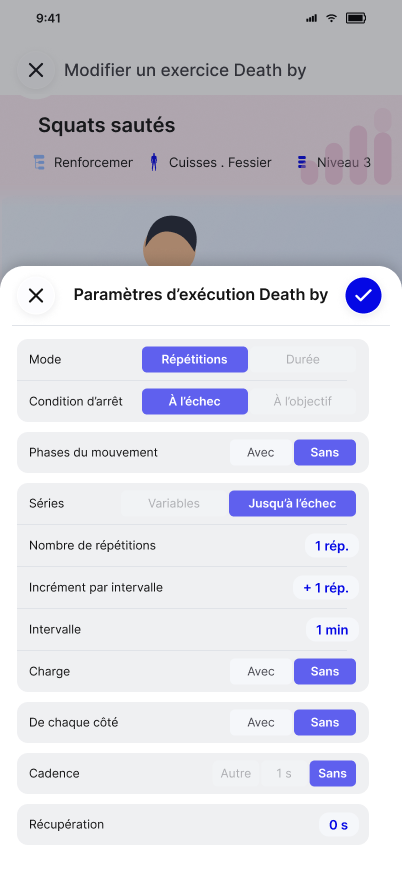
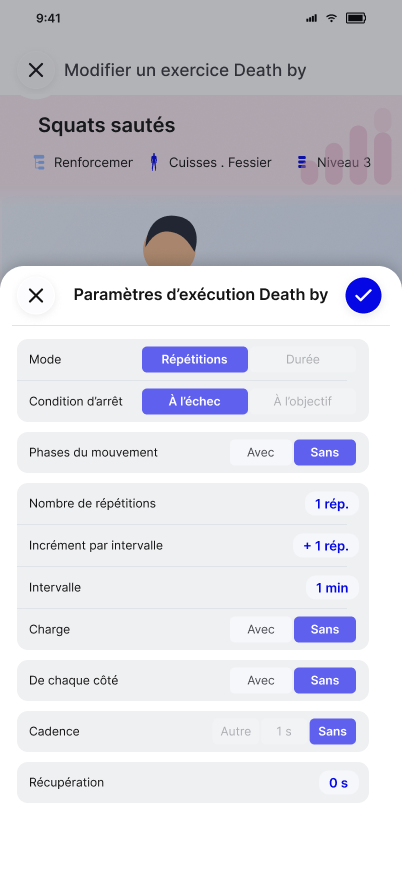
docs: retirer la ligne Séries de la modale Death by (D-514)

diff --git a/docs/KODJO-Formats-entrainement-2026-11-02.md b/docs/KODJO-Formats-entrainement-2026-11-02.md
@@ -608,11 +608,13 @@ Paramètres du questionnaire : Intervalle (1 min), Objectif de départ (1), Incr
 
 **Un seul mouvement** — l'exercice porte le format (Type d'exercice = Death by) :
 
+Dans la modale « Paramètres d’exécution » de Death by, la condition d’arrêt standard « À l’échec » porte seule la fin de l’exercice. La ligne « Séries » est retirée. Le nombre de séries découle de l’échec. En mode Répétitions, la série de rang n (à partir de 1) demande le nombre de répétitions de départ augmenté de (n − 1) fois l’incrément par intervalle.
+
 | Champ | Valeur |
 |---|---|
 | Mode | Répétitions (Durée grisé) |
 | Condition d'arrêt | À l’échec, imposée (À l’objectif grisé) |
-| Séries | **« Jusqu'à l'échec »** (Variables grisé) : seule nouveauté, une valeur du champ Séries à la place d'un nombre |
+| Séries | ~~« Jusqu'à l'échec » (Variables grisé) : seule nouveauté, une valeur du champ Séries à la place d'un nombre~~. **Remplacé le 07/11/2026 (D-514).** Ligne retirée. |
 | Nombre de répétitions | 1 (départ) |
 | Incrément par intervalle | + 1 rép. par défaut, **au minimum + 1** (0 n'est pas proposé : ce serait un EMOM jusqu'à l'échec) — champ Incrément par tour de l'AMRAP |
 | Intervalle | 1 min (champ de l'EMOM) |
@@ -655,7 +657,7 @@ Lorsqu'un exercice sort d'un circuit qui porte un format (AMRAP, For time, EMOM 
    - Sortie d’un Circuit AMRAP → AMRAP simple en Répétitions ; durée d’un bloc reprise du Circuit (ex. 12 min). Si le membre était en Durée, aucune durée n’est convertie en répétitions : l’objectif de répétitions reste à renseigner ; les phases et autres paramètres compatibles sont conservés. Les phases chronométrées ne transforment pas la cible de l’AMRAP simple en Durée.
    - Sortie d'un circuit For time → For time simple ; Séries = nombre de tours, mêmes volumes.
    - Sortie d'un circuit EMOM « dans chaque intervalle » → EMOM simple ; Intervalle = durée de chaque tour, Séries = nombre de tours.
-   - Sortie d’un Circuit Death by → Death by simple ; Séries « Jusqu’à l’échec », Nombre de répétitions et Incrément conservés. Dans chaque intervalle : Intervalle repris du Circuit. En alternance : Intervalle propre de l’Exercice conservé, sans reprise d’une durée de Circuit inexistante.
+   - Sortie d’un Circuit Death by → Death by simple ; ~~Séries « Jusqu’à l’échec »,~~ **Remplacé le 07/11/2026 (D-514)** (aucune ligne Séries à rétablir). Nombre de répétitions et Incrément conservés. Dans chaque intervalle : Intervalle repris du Circuit. En alternance : Intervalle propre de l’Exercice conservé, sans reprise d’une durée de Circuit inexistante.
 2. **« Adopter un format libre »** : l'exercice devient un exercice standard. Exception : un buy-in ou un buy-out sorti du circuit devient directement un exercice libre (section 6), sans cette confirmation. Le choix explicite du Format Libre reprend les paramètres compatibles et laisse les autres à compléter ; aucune conversion de durée en répétitions, aucun calcul arbitraire et aucune confirmation supplémentaire de perte. Ne pas promettre « aucune perte » pour tous les changements de prescription.
 
 **Dialogue représenté** : « AMRAP — Séance, sortie d’un exercice du circuit (confirmation) » (`11410:20123`), composant « DSF / Overlays / Confirmation », variante Trois actions, sur fond voilé. Titre « Sortir du circuit AMRAP ? » ; exemple de message « Fentes avant devient un AMRAP simple de 12 min, ou un exercice libre sans incrément par tour. » Actions : **Conserver le format AMRAP** (principale bleue, choix par défaut), **Adopter un format libre** (secondaire), **Annuler**. Annuler conserve l’emplacement et les paramètres antérieurs. Le message varie selon le mouvement, le Format et les paramètres effectivement repris ; ce texte illustratif ne supprime pas les règles de compatibilité ou de champs à compléter.
@@ -676,7 +678,7 @@ Un exercice qui porte lui-même son format (EMOM, For time, AMRAP simple…) ne 
 | Nom du circuit | Circuit | Nom modifiable ; modèle par défaut, sinon Circuit | Tous Circuits (§7.8) |
 | Modèle d’origine | Circuit | Modèle de création non modifiable, distinct du Format d’origine | Réouverture du parcours (§7.9) |
 | Intervalle | Exercice | Durée (1 min par défaut), modifiable dans sa modale, remplace la Pause | EMOM autonome ou alterné ; Death by autonome ou membre du Circuit Death by alterné |
-| Séries « Jusqu'à l'échec » | Exercice | Valeur du champ Séries à la place d'un nombre | Death by |
+| Séries « Jusqu'à l'échec » | Exercice | ~~Valeur du champ Séries à la place d'un nombre~~. **Remplacé le 07/11/2026 (D-514).** Aucun paramètre de nombre de séries. | Death by |
 | Durée maximum du For time | Exercice | Libellé de la Durée de l'exercice pour un For time simple ; « Aucune » par défaut | For time |
 
 Champs propres au format qui restent sur un exercice qui porte lui-même son format :
@@ -684,7 +686,7 @@ Champs propres au format qui restent sur un exercice qui porte lui-même son for
 - **AMRAP simple** : Incrément par tour ;
 - **EMOM** : Intervalle ;
 - **For time** : Durée maximum du For time ;
-- **Death by** : Intervalle, Incrément par intervalle, Séries « Jusqu'à l'échec ».
+- **Death by** : Intervalle, Incrément par intervalle, ~~Séries « Jusqu'à l'échec »~~ (**Remplacé le 07/11/2026 (D-514)**, ligne retirée).
 
 Les valeurs imposées par un Format restent visibles et grisées ; les valeurs initiales réglables ne sont pas des constantes imposées. Seuls les paramètres effectivement portés par le Circuit sont retirés de la saisie locale de l’Exercice ; l’Intervalle du Death by alterné reste local. Exception informative : le rappel de la borne For time (« Sans limite » ou « ≤ X min »), conservé grisé. Les préconfigurations Tabata et départs rapides restent modifiables (§9).
 

diff --git a/docs/Specifications-fonctionnelles/07 – Registre des décisions de conception.md b/docs/Specifications-fonctionnelles/07 – Registre des décisions de conception.md
@@ -1281,3 +1281,4 @@ Source : [KODJO-Catalogues-cartes-modales-2026-11-06](../KODJO-Catalogues-cartes
 | D-511 | Composition : carte d’exercice 72 pt, photo 64 à 4/rayon 8, liseré 0,5 à 50 %, trois lignes à 8/30/48 ; nom/niveau, catégorie/prescription sans chronomètre, zones/rôle/récupération conditionnelle ; aucun chevron ; rail centré sur photo, largeur de référence 362. | Hermann, 06/11/2026 — classe B | [Spec §11](../KODJO-Catalogues-cartes-modales-2026-11-06.md#11-composition--carte-dexercice-en-tête-de-circuit-placement), CE-T03-08, ch06, ch12 |
 | D-512 | Chevron du Circuit juste après le rond du rail et devant le nom ; compteur/nature inchangés ; Cycle non repliable. Déploiement Figma limité à 11789:21914. | Hermann, 06/11/2026 — classe B | CE-T03-08, spec §11 |
 | D-513 | Placement réservé aux Points d’arrêt ; retrait du cadre Récupération en pointillés. Écran 8328:29270 renommé Placement d’un point d’arrêt ; bandeau Confirmer N points d’arrêt ajoutés. | Hermann, 06/11/2026 — classe B | CE-T03-08, ch06, spec §11 |
+| D-514 | Dans la modale « Paramètres d’exécution » de Death by, la condition d’arrêt standard « À l’échec » porte seule la fin de l’exercice. La ligne « Séries » est retirée. Le nombre de séries découle de l’échec. En mode Répétitions, la série de rang n (à partir de 1) demande le nombre de répétitions de départ augmenté de (n − 1) fois l’incrément par intervalle. | Hermann, 07/11/2026 | CE-FMT-04, écran 8598:31210, spec Formats §12 |

diff --git a/docs/Specifications-fonctionnelles/06 – Ecrans et navigation de la V1.md b/docs/Specifications-fonctionnelles/06 – Ecrans et navigation de la V1.md
@@ -2173,7 +2173,7 @@ Nœud [8598:30873](https://www.figma.com/design/G6RY5Ebhgwb4AHIOYDwwvg?node-id=8
 
 ##### Death by — Modale exercice, standard
 
-Nœud [8598:31210](https://www.figma.com/design/G6RY5Ebhgwb4AHIOYDwwvg?node-id=8598-31210) · Contrat CE-FMT-04 · Export du 05/11/2026.
+Nœud [8598:31210](https://www.figma.com/design/G6RY5Ebhgwb4AHIOYDwwvg?node-id=8598-31210) · Contrat CE-FMT-04 · Export du 07/11/2026. Condition d’arrêt « À l’échec », départ et incrément visibles, sans ligne « Séries » (D-514).
 
 ![Death by — Modale exercice, standard](images/figma-8598-31210.png)
 
